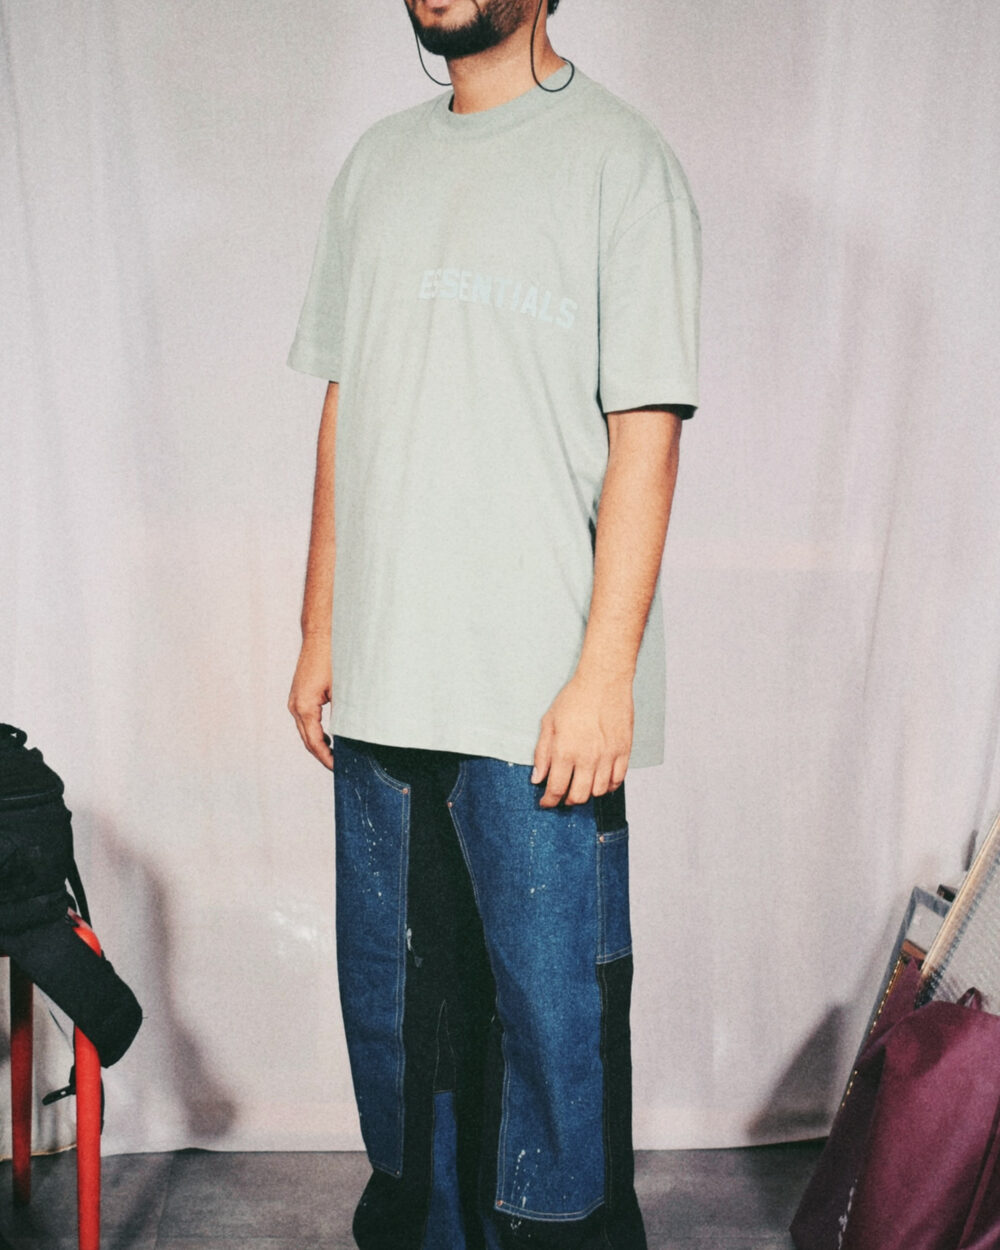
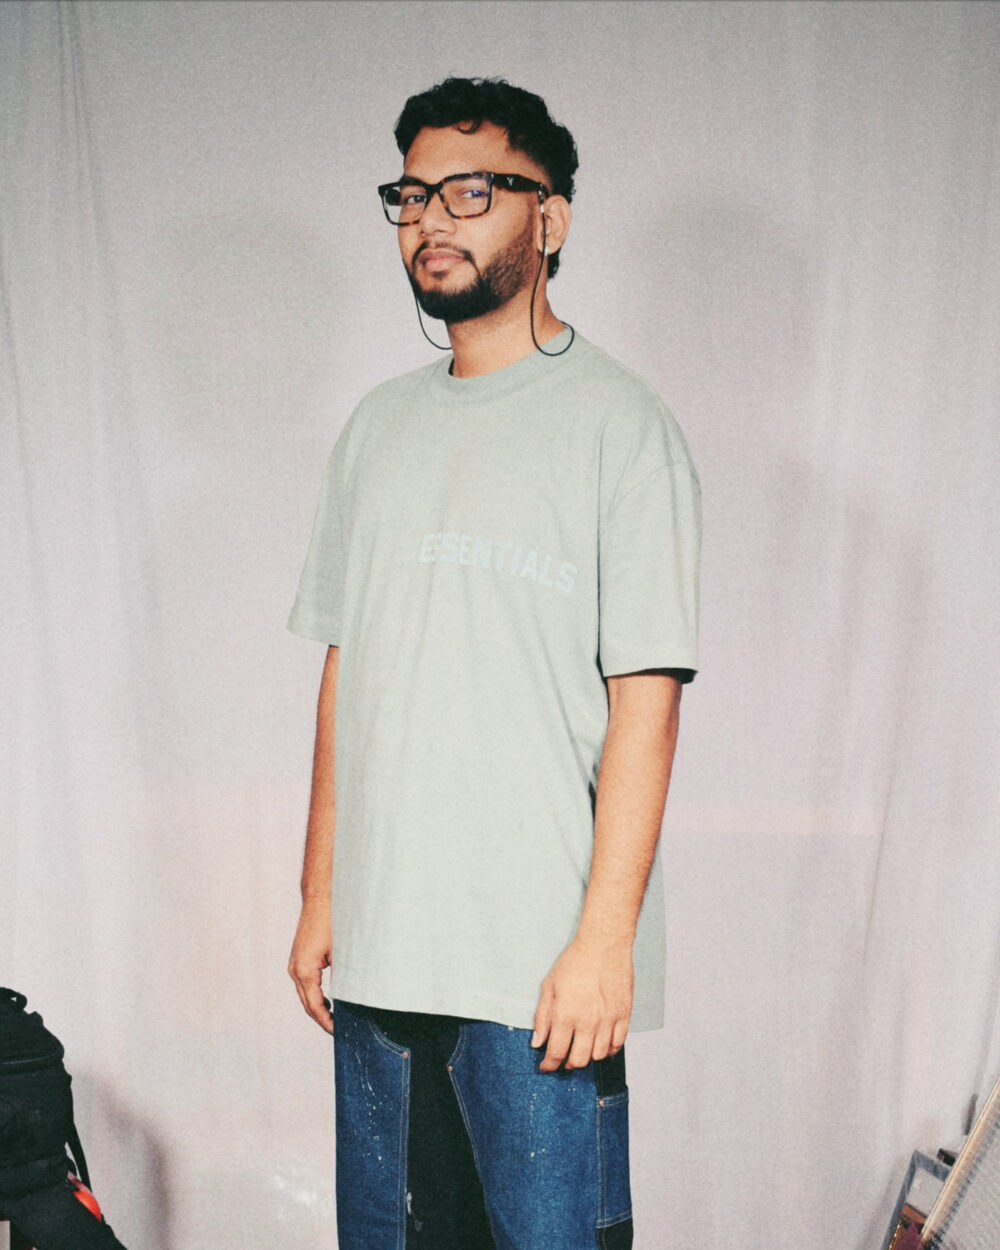
Hero rewrite (sage+jester); passport-stamp press strip; broaden cinema; fix about crop

diff --git a/index.html b/index.html
@@ -189,14 +189,26 @@
       text-transform: uppercase; color: var(--muted);
     }
     .press-list {
-      display: flex; gap: 36px;
+      display: flex; gap: 14px 18px;
       flex-wrap: wrap; align-items: center;
     }
     .press-list span {
-      font-family: "Fraunces", serif;
-      font-size: 18px; font-weight: 500;
-      color: var(--text); letter-spacing: 0.01em;
+      font-family: ui-monospace, "SF Mono", Menlo, monospace;
+      font-size: 12px; font-weight: 500;
+      color: var(--text); letter-spacing: 0.14em;
+      text-transform: uppercase;
+      padding: 8px 14px 7px;
+      border: 1px dashed var(--line);
+      border-radius: 2px;
+      display: inline-block;
+      transition: transform 0.3s ease, border-color 0.3s ease;
     }
+    .press-list span:hover { transform: rotate(0deg) !important; border-color: var(--text); }
+    .press-list span:nth-child(1) { transform: rotate(-1.4deg); }
+    .press-list span:nth-child(2) { transform: rotate(0.8deg); }
+    .press-list span:nth-child(3) { transform: rotate(-0.6deg); }
+    .press-list span:nth-child(4) { transform: rotate(1.2deg); }
+    .press-list span:nth-child(5) { transform: rotate(-0.9deg); }
 
     /* ─── ABOUT ──────────────────────────────────────────── */
     .about-grid {
@@ -472,16 +484,14 @@
   <header class="container">
     <div class="hero">
       <div class="hero-text">
-        <div class="hero-eyebrow">Operator. With footnotes.</div>
-        <h1>I build and grow <em>businesses</em>.</h1>
+        <div class="hero-eyebrow">Founder. Operator. With footnotes.</div>
+        <h1>I like <em>big</em> businesses, and I can't lie.</h1>
         <p class="hero-tagline">
-          Founder of Ninety-Eight Entertainment (exited). Founder's Office at Intellewings, an AI-native financial-crime platform. Currently: go-to-market and founder advisory work, the early build-out of ISB's first Sports Management course, and writing about Indian sports, talent, and the operating playbook I've collected the hard way. Off-duty: golf, an Argentine-cinema rabbit hole, Mandeville on luxury, and a sneaker rotation that doubles as a mood board.
+          Started Ninety-Eight Entertainment at 21 on a five-figure check; sold it five years later doing ₹15Cr — a roster that included one of India's most prominent cricketers and a campaign wall most agencies twice my age were chasing. Spent 2025 in the Founder's Office at Intellewings, an AI-native fincrime platform — opened MENA, closed our biggest enterprise upsell, raised half the round. Now: putting together ISB's first Sports Management course, working with early-stage founders trying to find their first repeatable revenue motion, and writing about Indian sports, talent, and what I keep getting wrong.
         </p>
         <div class="hero-creds">
           <span class="cred-tag"><strong>ISB</strong> &nbsp;PGP '25</span>
           <span class="cred-tag"><strong>Georgia Tech</strong> &nbsp;Research Scholar</span>
-          <span class="cred-tag"><strong>GMAT</strong> &nbsp;760 / Top 1%</span>
-          <span class="cred-tag">ex-Founder · Strategy &amp; Growth</span>
         </div>
       </div>
       <div class="hero-photo">
@@ -517,7 +527,7 @@
           <p>Along the way I signed cricketer <strong>Ishant Sharma</strong> as exclusive talent, architected his RuPay × IPL partnership (300M+ impressions), ran award-winning campaigns for Happy Dent and Borges, and built a hyperlocal influencer engine that brands like TrulyMadly and Slay Coffee rode for growth.</p>
           <p>After business school I joined <strong>Intellewings</strong> as Founder's Office — owned commercial GTM in MENA, helped close a $1M ARR upsell with Jio, secured 50% of the venture round, and ran an 8-week reset that lifted productivity 40% and cut cloud spend 30%.</p>
           <p>Today I split my time between go-to-market and founder advisory work, the early build-out of <strong>ISB's first Sports Management course</strong>, and writing about Indian sports, talent and the operating playbook I've collected the hard way.</p>
-          <p>Off the clock you'll find me on a golf course (12 handicap, longest-drive at the BMW tournament — swing still inconsistent), in a notebook designing something, or two books deep — usually one history and one operator memoir, lately falling for Argentine cinema. Born in Ratlam (population ~270K, on the Mumbai–Delhi line, on no one's map) and still mildly surprised when people don't know it.</p>
+          <p>Off the clock you'll find me on a golf course (12 handicap, longest-drive at the BMW tournament — swing still inconsistent), in a notebook designing something, or two books deep — usually one history, one operator memoir. I keep a watchlist of films from places most people skip past on the festival map. Born in Ratlam (population ~270K, on the Mumbai–Delhi line, on no one's map) and still mildly surprised when people don't know it.</p>
         </div>
         <div class="about-photo">
           <img class="photo photo--portrait" src="assets/about.jpg" alt="Harsh Kumar Arya" loading="lazy" />
@@ -680,8 +690,8 @@
           <p>I sketch most ideas before I write them. Brand systems, decks, the occasional album cover for a friend, and a sneaker collection that doubles as a mood board. Style is design you carry everywhere.</p>
         </div>
         <div>
-          <h4>Reading &amp; ideas</h4>
-          <p>Two books at once: usually one history, one operator memoir. Lately: Mandeville on luxury, Frankl on meaning, the soft-power machinery behind Saudi/UAE sports investment. Argentine cinema rabbit hole — Lucrecia Martel, then Lisandro Alonso, then back. Started a sommelier reading list, mostly to stop pretending at restaurants.</p>
+          <h4>Reading &amp; watching</h4>
+          <p>Two books at once — usually one history, one operator memoir. Lately: Mandeville on luxury, Frankl on meaning, the soft-power machinery behind Saudi/UAE sports investment. World cinema watchlist that runs heavy on the festival circuit nobody else is bothering with. Started a sommelier reading list, mostly to stop pretending at restaurants.</p>
         </div>
       </div>
     </div>